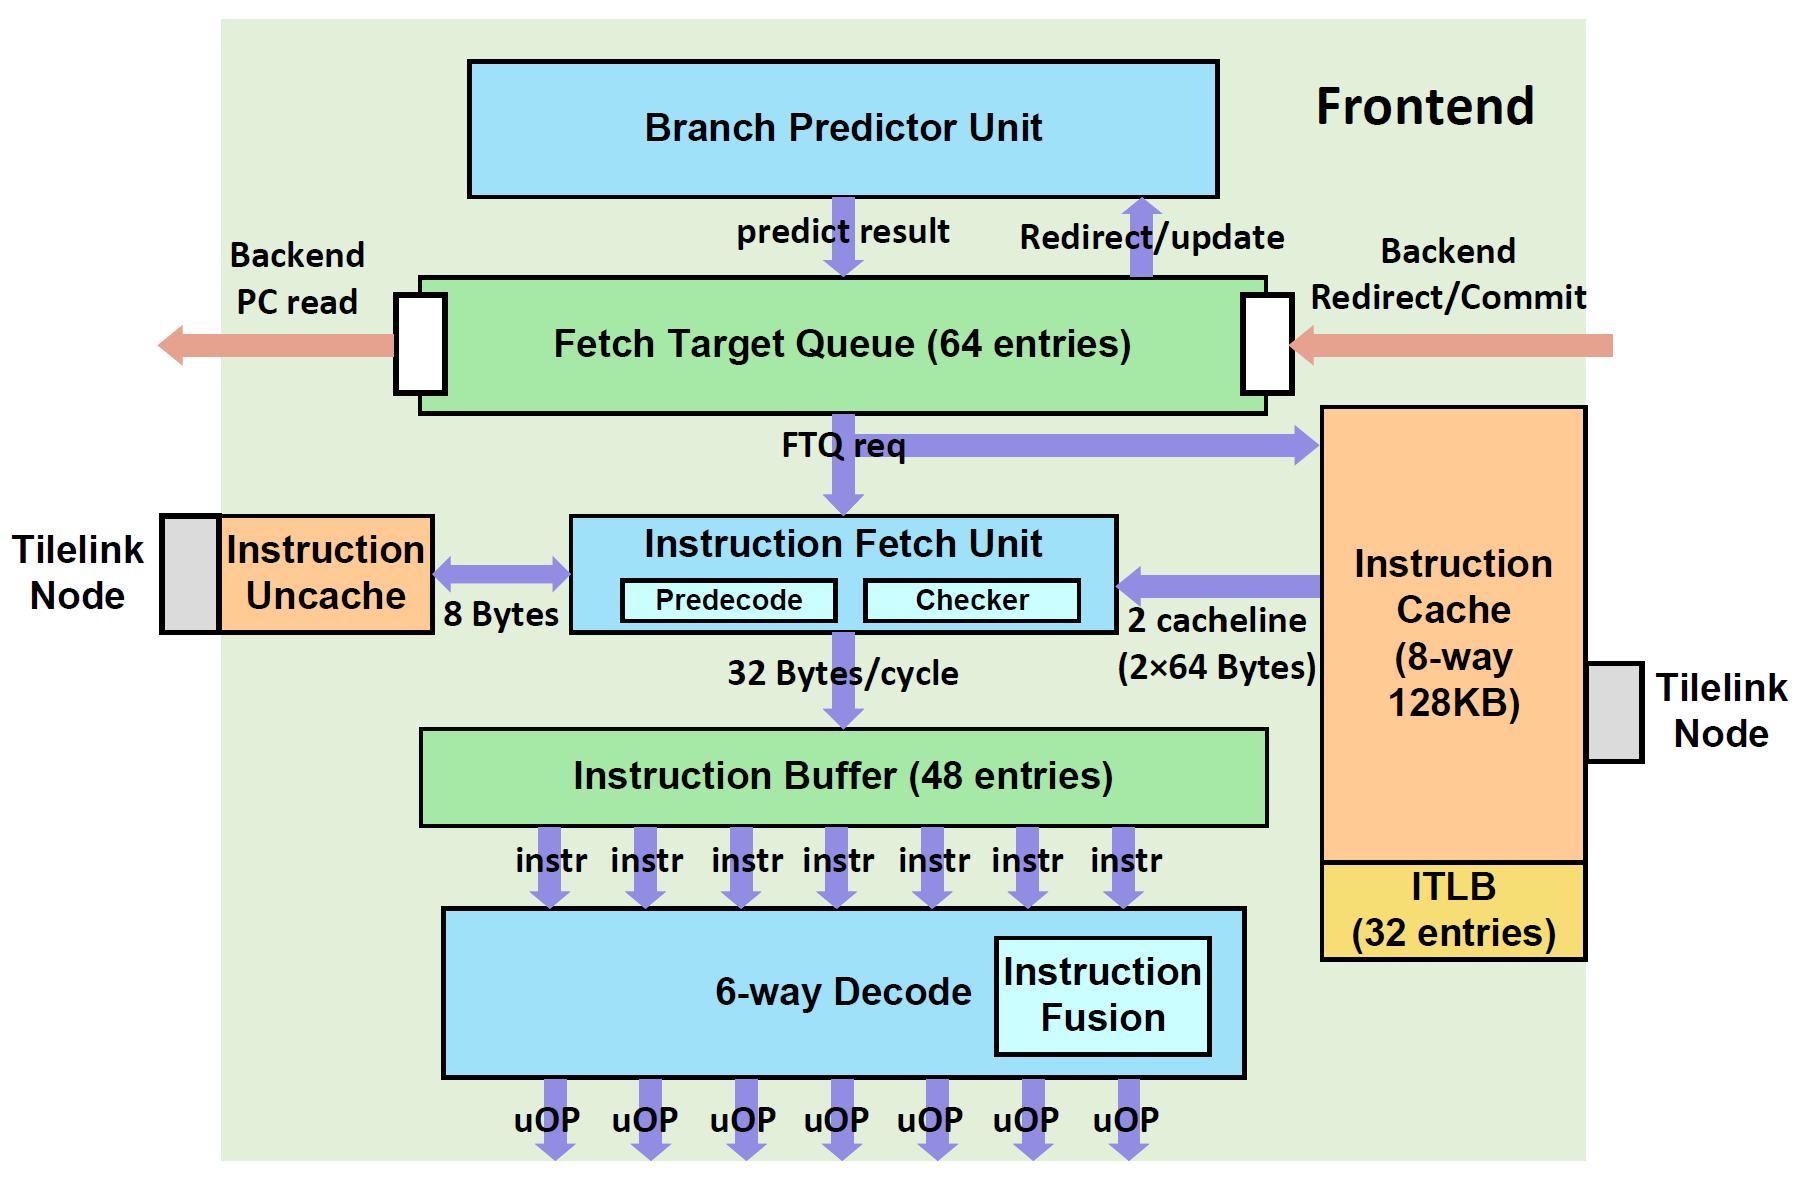
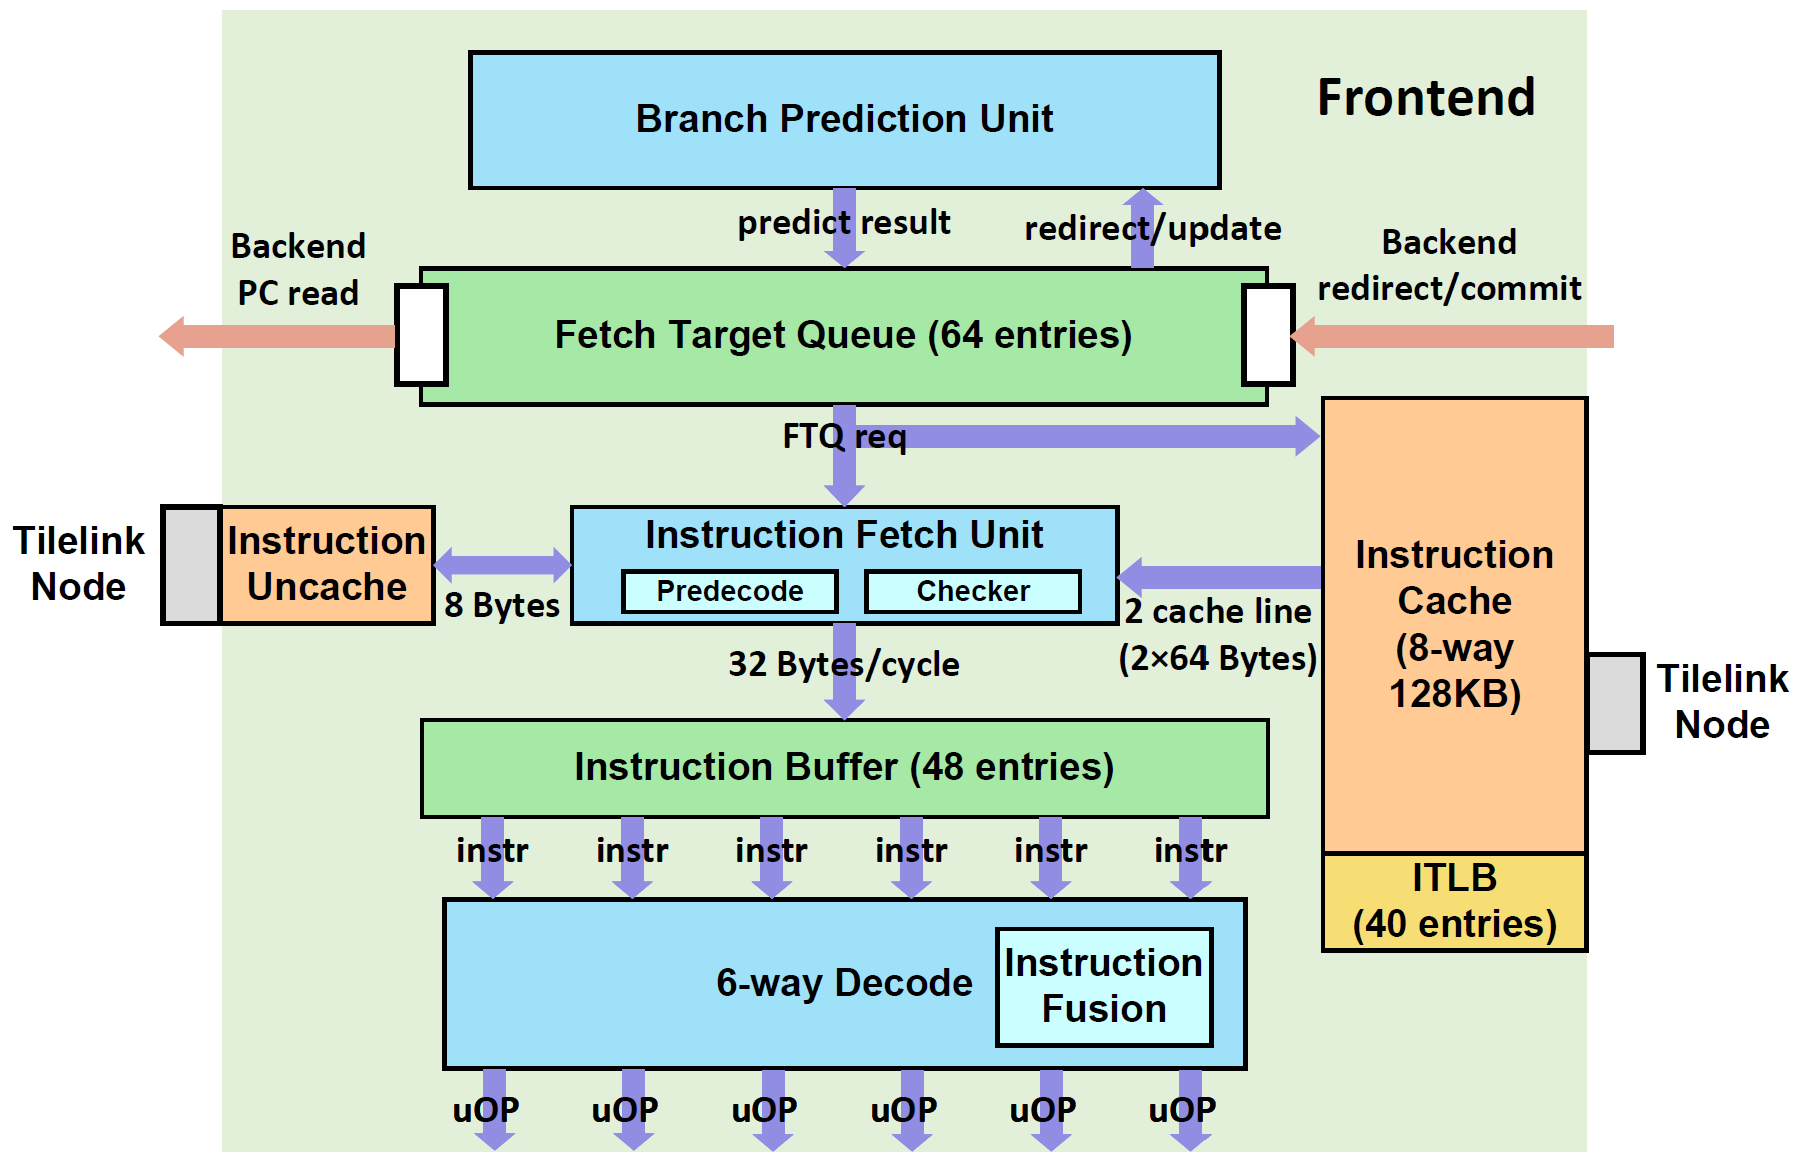
frontend/ifu: fix typo and wrong information

diff --git a/docs/frontend/icache.md b/docs/frontend/icache.md
@@ -5,16 +5,16 @@
 这一章描述香山处理器指令缓存的实现。
 
 ## 指令缓存配置
-| 参数名称               | 参数描述                          |
+| 参数名称               | 参数描述                              |
 | -----------           | ------------------------------------ |
-| `nSet`                | 指令缓存 Set 数，默认为 256  |
+| `nSet`                | 指令缓存 Set 数，默认为 256            |
 | `nWays`               | 指令缓存每个 Set 的组相连路数，默认为 8 路 |
-| `nTLBEntries`         | ITLB 的 PTE 项数，默认为 32 项 |
+| `nTLBEntries`         | ITLB 的项数，默认为 40 项(32普通页 + 8项大页) |
 | `tagECC`              | Meta SRAM 的校验方式，南湖版本配置为奇偶校验 |
 | `dataECC`             | Data SRAM 的校验方式，南湖版本配置为奇偶校验 |
 | `replacer`            | 替换策略，默认为随机替换，南湖版本配置为 PLRU |
 | `hasPrefetch`         | 指令预取开关，默认为关闭 |
-| `nPrefetchEntries`    | 指令预取的 entry 数目，同时可支持的最大 cacheline 预取数，默认为4 |
+| `nPrefetchEntries`    | 指令预取的 entry 数目，同时可支持的最大 cache line 预取数，默认为4 |
 
 
 ## 控制逻辑
@@ -22,10 +22,9 @@
 
 指令缓存的主控制逻辑模块 MainPipe 由 3 级流水线构成：
 
-- 在 `s0` 阶段从 FTQ 发送过包含两个 cacheline 的取指令请求，其中包含了每个请求是否有效的信号（不跨行的指令 packet 止只会发送一个 cacheline 的读请求），同时 MainPipe 一方面会把请求地址提取为缓存组索引（set index）发送给指令 Cache 的 [存储部分](#mem)，另一方面，这些请求会被发送给 ITLB 进行 [指令地址翻译](#tlb)
-- 在 `s1` 阶段，存储 SRAM 返回一个组（Cache Set）一共 N 个路 (Cache Way) 的 cacheline 元数据和数据。同时 ITLB 返回请求对应的物理地址。接下来主控制逻辑截取物理地址并和 N 个路的 Cache tag 进行匹配，生成缓存命中（Cache hit）和缓存缺失（Cache miss）两种结果。另外还会根据替换算法的状态信息选出需要替换的 cacheline。
-- 在 `s2` 阶段，hit 的请求直接返回数据给 IFU。而当发生 miss 的时候需要暂停流水线，并将请求发送给缺失处理单元 MissUnit。等到 MissUnit 充填完成并返回数据之后将数据返回给 IFU。
-- 在 `s2` 阶段还会把 ITLB 翻译得到的物理地址发送给 PMP 模块进行访问权限的查询，如果权限错误会触发指令访问例外 (Instruction Access Fault)
+- 在 `s0` 阶段从 FTQ 发送过包含两个 cache line 的取指令请求，其中包含了每个请求是否有效的信号（不跨行的指令 packet 止只会发送一个 cache line 的读请求），同时 MainPipe 一方面会把请求地址提取为缓存组索引（set index）发送给指令 Cache 的 [存储部分](#imem)，另一方面，这些请求会被发送给 ITLB 进行 [指令地址翻译](#itlb)
+- 在 `s1` 阶段，存储 SRAM 返回一个组（cache set）一共 N 个路 (cache way) 的 cache line 元数据和数据。同时 ITLB 返回请求对应的物理地址。接下来主控制逻辑截取物理地址并和 N 个路的 Cache tag 进行匹配，生成缓存命中（cache hit）和缓存缺失（cache miss）两种结果。另外还会根据替换算法的状态信息选出需要替换的 cache line。
+- 在 `s2` 阶段，hit 的请求直接返回数据给 IFU。而当发生 miss 的时候需要暂停流水线，并将请求发送给缺失处理单元 MissUnit。等到 MissUnit 充填完成并返回数据之后将数据返回给 IFU。这个阶段还会把 ITLB 翻译得到的物理地址发送给 PMP 模块进行访问权限的查询，如果权限错误会触发指令访问例外 (Instruction Access Fault)
 
 <h2 id=itlb> 指令地址翻译 </h2>
 
@@ -33,16 +32,16 @@
 
 ## 缓存 miss 处理
 
-发生 miss 的请求会被移交给 MissUnit 向下游 L2 Cache 发送 Tilelink `Aquire` 请求，等到 MissUnit 收到对应数据的 `Grant` 请求之后，如果需要替换 cacheline，MissUnit 则会向 ReplacePipe 发送 Release 请求，ReplacePipe 会重新读一遍 SRAM 得到数据，然后发送给 ReleaseUnit 发起向 L2 Cache 的 `Release` 请求。最后 MissUnit 重填写 SRAM，等到重填结束后返回数据给 MainPipe，MainPipe 再把数据返回给 IFU。
+发生 miss 的请求会被移交给 MissUnit 向下游 L2 Cache 发送 Tilelink `Aquire` 请求，等到 MissUnit 收到对应数据的 `Grant` 请求之后，如果需要替换 cache line，MissUnit 则会向 ReplacePipe 发送 Release 请求，ReplacePipe 会重新读一遍 SRAM 得到数据，然后发送给 ReleaseUnit 发起向 L2 Cache 的 `Release` 请求。最后 MissUnit 重填写 SRAM，等到重填结束后返回数据给 MainPipe，MainPipe 再把数据返回给 IFU。
 
-miss 的 cacheline 可能发生在两个请求中的任何一个，因此 MissUnit 里设置了两个处理 miss 的 missEntry 项来提高并发度。
+miss 的 cache line 可能发生在两个请求中的任何一个，因此 MissUnit 里设置了两个处理 miss 的 missEntry 项来提高并发度。
 
 ## 例外的处理
 在 ICache 产生的例外主要包括两种：ITLB 报告的指令缺页例外（Instruction Page Fault）和 ITLB 和 PMP 报告的访问例外（Access Fault）。MainPipe 会把例外信息直接报告给 IFU，而请求的数据被视为无效。
 
 <h2 id=imem> 存储部分 </h2>
 
-指令 Cache 的存储逻辑主要分为了 Meta SRAM（存储每个 cacheline 的 tag 以及一致性状态）和 Data SRAM（存储每个 cacheline 的内容）。内部支持了奇偶校验码用以进行数据的校验，当校验发生错误的时候会给报总线错误并产生中断。Meta/Data SRAM 内部都分了奇偶 bank，虚地址空间中相邻的两个 cacheline 会被分别划分到不同的 bank 来实现一次两个 cacheline 的读取。
+指令 Cache 的存储逻辑主要分为了 Meta SRAM（存储每个 cache line 的 tag 以及一致性状态）和 Data SRAM（存储每个 cache line 的内容）。内部支持了奇偶校验码用以进行数据的校验，当校验发生错误的时候会给报总线错误并产生中断。Meta/Data SRAM 内部都分了奇偶 bank，虚地址空间中相邻的两个 cache line 会被分别划分到不同的 bank 来实现一次两个 cache line 的读取。
 
 
 ## 一致性支持
@@ -53,8 +52,8 @@ miss 的 cacheline 可能发生在两个请求中的任何一个，因此 MissUn
 指令缓存的 ReplacePipe 由 4 级流水线构成：
 
 - 在 `r0` 阶段接收从 ProbeUnit 发送过来的 Probe 请求和从 MissUnit 发送过来的 Release 请求，同时也会发起对 Meta/Data SRAM 的读取。因为这里的请求包含了虚拟地址和实际的物理地址，所以不需要做地址翻译。
-- 在 `r1` 阶段，ReplacePipe 和 MainPipe 一样用物理地址对 SRAM 返回的一个 Set 的 N 路 cacheline 做地址匹配，产生 hit 和 miss 两种信号，这个信号仅仅对于 Probe 有效，因为 Release 的请求一定在 Cache 里。
-- 在 `r2` 阶段，hit 的 Probe 请求将被 invalid 掉，同时会把这个请求发送给 ReleaseUnit 向 L2 发送 `ProbrResponse` 请求，这个 cacheline 的权限转变为 toN。miss 的请求不会做 invalid，并且会发送给 ReleaseUnit 向 L2 报告权限转变为 NToN（指令 Cache 里没有 Probe 要求的数据）。Release 请求也会被发送到 ReleaseUnit 向 L2 发送 `ReleaseData`。且只有 Release 请求被允许进入 `r3`
+- 在 `r1` 阶段，ReplacePipe 和 MainPipe 一样用物理地址对 SRAM 返回的一个 Set 的 N 路 cache line 做地址匹配，产生 hit 和 miss 两种信号，这个信号仅仅对于 Probe 有效，因为 Release 的请求一定在 Cache 里。
+- 在 `r2` 阶段，hit 的 Probe 请求将被 invalid 掉，同时会把这个请求发送给 ReleaseUnit 向 L2 发送 `ProbrResponse` 请求，这个 cache line 的权限转变为 toN。miss 的请求不会做 invalid，并且会发送给 ReleaseUnit 向 L2 报告权限转变为 NToN（指令 Cache 里没有 Probe 要求的数据）。Release 请求也会被发送到 ReleaseUnit 向 L2 发送 `ReleaseData`。且只有 Release 请求被允许进入 `r3`
 - 在 `r3` 阶段，ReplacePipe 向 MissUnit 报告被替换出去的块已经往下 Release 了，通知 MissUnit 可以进行重填。
 
 

diff --git a/docs/frontend/ifu.md b/docs/frontend/ifu.md
@@ -7,10 +7,10 @@
 
 一个取指令请求从 FTQ 发出之后在 IFU 中经历了下面几个阶段：
 
-- 从 FTQ 发送过来的取指令请求包含了一个 32Bytes 指令码 （称为一个指令 packet ） 的起始地址和下一个跳转目标的地址，
+- 从 FTQ 发送过来的取指令请求包含了一个 32Bytes 指令码 （称为一个指令块 ） 的起始地址和下一个跳转目标的地址，
 - 在 `IFU0` 阶段同时发送请求给 IFU 流水线和 ICache 模块。
-- `IF1` 阶段会做一些简单计算（例如这个指令 packet 里每个 2 Bytes， 即每一条可能的指令的 PC ）。
-- `IF2` 阶段等到指令缓存返回最多两个 Cacheline 的数据（因为可能存在这个 [指令 packet 跨行](#crossfetch) 的情况）之后，第一步先做指令切分，将在取指令地址之外的指令码抛弃得到有效范围的指令码。送入预译码器进行[预译码](#predecode)，同时将 16 bits 的压缩指令扩展为 32 bits 的指令。
+- `IF1` 阶段会做一些简单计算（例如这个指令块里每个 2 Bytes， 即每一条可能的指令的 PC ）。
+- `IF2` 阶段等到指令缓存返回最多两个 Cacheline 的数据（因为可能存在这个 [指令块 跨行](#crossfetch) 的情况）之后，第一步先做指令切分，将在取指令地址之外的指令码抛弃得到有效范围的指令码。送入预译码器进行[预译码](#predecode)，同时将 16 bits 的压缩指令扩展为 32 bits 的指令。
 - `IF3` 阶段首先会将预译码结果送到 [分支预测检查器](#predchecker) 里，发现错误就会在下一拍刷新 IFU 流水线并把信息发送给 FTQ 刷新预测器并重新取指令。未发现错误的缓存在指令缓冲队列（IBuffer）里等待译码。
 - `IF3` 阶段还会根据地址翻译的结果向指令 MMIO 模块发起取指令请求，同时转变为 [MMIO 取指令模式](#mmiofetch)，指令一条一条顺序执行。
 - IFU 控制逻辑还需要 [处理半条 RVI 指令](#half) 的情况。
@@ -20,33 +20,33 @@
 
 预译码器将经过切分的 16 个 16 bits 指令码进行译码，得到部分指令信息（是否是跳转指令、跳转指令类型以及是否是压缩指令等），对于跳转指令还会计算它的目标地址。主要是为了给 [分支预测检查器](#predchecker) 提供指令信息和正确的目标地址以及及时更新预测器中的指令信息。
 
-另一方面，预译码器也会将压缩指令（如果这个 packet 里有的话）扩展为 32 bits 的长指令以便于后续简化译码逻辑。
+另一方面，预译码器也会将压缩指令（如果这个指令块里有的话）扩展为 32 bits 的长指令以便于后续简化译码逻辑。
 
 <h2 id=predchecker></h2>
 ##  分支预测检查 
 
 分支预测检查器在拿到指令的预译码信息之后主要针对以下几个错误检查：
 
-- jump 指令预测不跳转的错误：针对 `jal` 和 `ret` 这两种种必定跳转的指令检查，如果这个 packet 的 [有效指令范围](#validinstr) 内有这两种指令，且预测为不跳转，则视为预测错误。
+- jump 指令预测不跳转的错误：针对 `jal` 和 `ret` 这两种种必定跳转的指令检查，如果这个 块 的 [有效指令范围](#validinstr) 内有这两种指令，且预测为不跳转，则视为预测错误。
 - 非跳转指令的预测错误：如果预测为跳转的指令不在有效指令范围内，或者在有效指令范围内但是不是一条跳转指令，则视为预测错误。
 - 目标地址错误：对于可以通过指令码知道目标地址的跳转指令（除了 `jalr` 之外的跳转指令），如果在有效指令范围内且预测跳转并且跳转目标地址和正确地址不匹配，则视为预测错误。
 
-在发现错误后，分支预测检查器挑选出指令顺序最靠前的预测错误指令，把错误信息（错误指令在 packet 里的位置、指令预译码信息、正确的目标地址）传递给 FTQ ，同时清空 IFU 流水线。IFU 等待 FTQ 重新发取指令请求。
+在发现错误后，分支预测检查器挑选出指令顺序最靠前的预测错误指令，把错误信息（错误指令在 块 里的位置、指令预译码信息、正确的目标地址）传递给 FTQ ，同时清空 IFU 流水线。IFU 等待 FTQ 重新发取指令请求。
 
 <h2 id=crossfetch></h2>
 ##  跨行指令处理（Cross-Cacheline Fetch）
 
-由于我们的指令 packet 包括了 32 Bytes 的指令码，相当于半个 cacheline（64 Bytes）的大小，如果这个 packet 的起始地址在后半个 cacheline 里，那么完全有可能发生 packet 的范围跨过两个 cacheline 的情况，因此在指令缓存支持一次取两个 cacheline 以保证这种情况下的指令吞吐。具体做法是当 FTQ 发现 packet 的起始地址在后半个 cacheline 里，就发起对指令缓存两个相邻 cacheline 的请求。
+由于我们的指令 块 包括了 32 Bytes 的指令码，相当于半个 cacheline（64 Bytes）的大小，如果这个 块 的起始地址在后半个 cacheline 里，那么完全有可能发生 块 的范围跨过两个 cacheline 的情况，因此在指令缓存支持一次取两个 cacheline 以保证这种情况下的指令吞吐。具体做法是当 FTQ 发现 块 的起始地址在后半个 cacheline 里，就发起对指令缓存两个相邻 cacheline 的请求。
 
 <h2 id=validinstr></h2>
 ##  有效指令范围 
 
-一个取指令 packet 的有效范围由 FTQ 给出的起始地址和跳转指令的 index（如果有跳转的话）共同确定，如果这个 packet 没有跳转指令，则默认指令有效范围为起始地址开始的 256 bits。
+一个取指令 块 的有效范围由 FTQ 给出的起始地址和跳转指令的 index（如果有跳转的话）共同确定，如果这个 块 没有跳转指令，则默认指令有效范围为起始地址开始的 256 bits。
 
 有效指令范围可能被 IFU 的检查重新确定，主要包括：
 * 分支预测检查发现有未预测跳转的 `jal` 和 `ret` 指令时，需要重新将有效指令范围缩短到第一条这样的跳转指令；
-* 前一个 packet 有半条 RVI 的情况，紧随其后的这个 packet 的第一个 16 bits 不在有效指令范围内。
-* MMIO 请求的 packet 的指令有效范围只有 32 bits
+* 前一个 块 有半条 RVI 的情况，紧随其后的这个 块 的第一个 16 bits 不在有效指令范围内。
+* MMIO 请求的 块 的指令有效范围只有 32 bits
 
 <h2 id=mmiofetch></h2>
 ## MMIO 取指令 
@@ -58,6 +58,6 @@ MMIO 请求每次只取一条指令，因此在这种模式下处理器的指令
 <h2 id=half></h2>
 ##  半条 RVI 指令的处理 
 
-当一个指令 packet 在 `IF3` 阶段发现它的最后 2 Bytes 是一条 RVI 指令的前半部分时，我们把这条 RVI 指令算在这个 packet 里，同时我们取两个 cacheline 的机制保证后半部分是一定可以被取到的，因此我们只需要在发生这种情况的时候置一个标识位，当下一个 packet 来的时候把第一个个 2 Bytes 排除在指令的有效范围之外即可。
+当一个指令 块 在 `IF3` 阶段发现它的最后 2 Bytes 是一条 RVI 指令的前半部分时，我们把这条 RVI 指令算在这个 块 里，同时我们取两个 cacheline 的机制保证后半部分是一定可以被取到的，因此我们只需要在发生这种情况的时候置一个标识位，当下一个 块 来的时候把第一个个 2 Bytes 排除在指令的有效范围之外即可。
 
 --8<-- "docs/frontend/abbreviations.md"

diff --git a/docs/tools/lightsss.md b/docs/tools/lightsss.md
@@ -9,7 +9,7 @@
 
 ## 原理
 
-lightSSS的原理是采用进程抽象的方式，用fork函数对仿真进程进行快照，具体过程如下：
+`lightSSS`的原理是采用进程抽象的方式，用fork函数对仿真进程进行快照，具体过程如下：
 
 * 主仿真进程每隔一定时间（这个时间间隔可以进行配置）fork一个子进程，子进程自我阻塞等待父进程的信号，这样每个子进程保存了父进程在特定时间的仿真状态。
 * 父进程仿真发生错误时，通知最新的子进程（但也必须在这个时间间隔之前）开始运行并打印波形或者debug信息。父进程等待子进程结束后退出。
